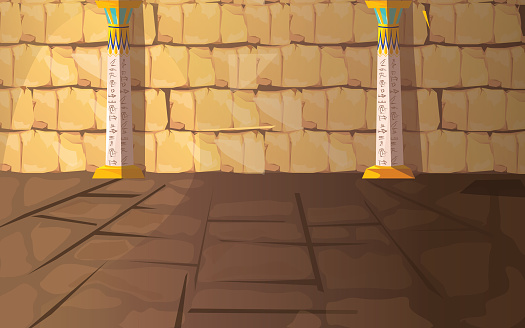
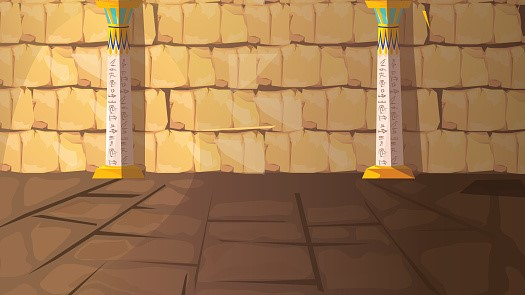
app style

diff --git a/src/App.css b/src/App.css
@@ -1,38 +1,19 @@
-.App {
-  text-align: center;
-}
-
-.App-logo {
-  height: 40vmin;
-  pointer-events: none;
-}
-
-@media (prefers-reduced-motion: no-preference) {
-  .App-logo {
-    animation: App-logo-spin infinite 20s linear;
-  }
-}
-
-.App-header {
-  background-color: #282c34;
-  min-height: 100vh;
+.container{
   display: flex;
   flex-direction: column;
-  align-items: center;
   justify-content: center;
-  font-size: calc(10px + 2vmin);
-  color: white;
+  align-items: center;
+  background-image: url(./images/tumba-faraon.jpg);
+  height: 100vh;
+  background-position: center;
+  background-repeat: no-repeat;
+  background-size: cover;
+  background-color: #5a422f;
 }
 
-.App-link {
-  color: #61dafb;
-}
-
-@keyframes App-logo-spin {
-  from {
-    transform: rotate(0deg);
-  }
-  to {
-    transform: rotate(360deg);
+/* Diseño Responsive */
+@media (max-width: 768px) {
+  .container {
+    background-image: url(./images/tumba-faraon-mobile.jpg);
   }
 }
